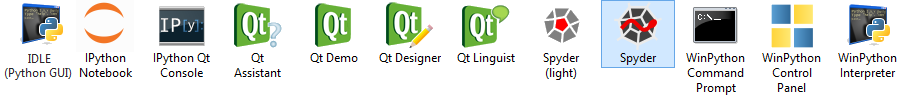
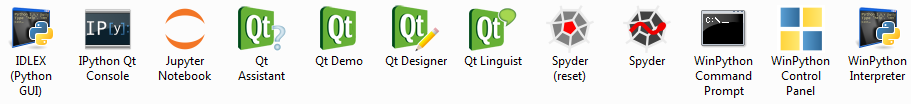
update website

diff --git a/index.html b/index.html
@@ -31,14 +31,14 @@
 		<ul>
 			<li>WinPython <strong>3.4</strong>.4.1 <a href="https://github.com/winpython/winpython/blob/master/changelogs/WinPython-3.4.4.1_History.md">Changelog</a>, <a href="https://github.com/winpython/winpython/blob/master/changelogs/WinPython-3.4.4.1.md">Packages</a> and <a href="https://sourceforge.net/projects/winpython/files/WinPython_3.4/3.4.4.1/">Downloads</a>, or <a href="https://github.com/winpython/winpython/releases/tag/1.3.20160209">alternative Downloads</a></li>
 			<li>WinPython <strong>3.4</strong>.4.1Qt5 <a href="https://github.com/winpython/winpython/blob/master/changelogs/WinPythonQt5-3.4.4.1_History.md">Changelog</a>, <a href="https://github.com/winpython/winpython/blob/master/changelogs/WinPythonQt5-3.4.4.1.md">Packages</a> and <a href="https://sourceforge.net/projects/winpython/files/WinPython_3.4/3.4.4.1/">Downloads</a></li>
-			<li>WinPython <strong>3.5</strong>.1.2 <a href="https://github.com/winpython/winpython/blob/master/changelogs/WinPython-3.5.1.2_History.md">Changelog</a>, <a href="https://github.com/winpython/winpython/blob/master/changelogs/WinPython-3.5.1.2.md">Packages</a> and <a href="https://sourceforge.net/projects/winpython/files/WinPython_3.5/3.5.1.2/">Downloads</a></li>
+			<li>WinPython <strong>3.5</strong>.1.2 (*) <a href="https://github.com/winpython/winpython/blob/master/changelogs/WinPython-3.5.1.2_History.md">Changelog</a>, <a href="https://github.com/winpython/winpython/blob/master/changelogs/WinPython-3.5.1.2.md">Packages</a> and <a href="https://sourceforge.net/projects/winpython/files/WinPython_3.5/3.5.1.2/">Downloads</a></li>
 		</ul>
 		<p>Release <a href="https://github.com/winpython/winpython/issues/190">2015-08</a> of December 12th, 2015 </p>
 		<p>Highlights: WinPython 3.5, Pandas 0.17.1, Scikit-learn 0.17, smaller Winpython variants (<a href="https://github.com/winpython/winpython/blob/master/changelogs/WinPythonZero-3.4.3.7.md">Zero</a> and <a href="https://github.com/winpython/winpython/blob/master/changelogs/WinPythonSlim-3.4.3.7.md">Slim</a>)</p>
 		<ul>
 			<li>WinPython <strong>3.4</strong>.3.7 <a href="https://github.com/winpython/winpython/blob/master/changelogs/WinPython-3.4.3.7_History.md">Changelog</a>, <a href="https://github.com/winpython/winpython/blob/master/changelogs/WinPython-3.4.3.7.md">Packages</a> and <a href="https://sourceforge.net/projects/winpython/files/WinPython_3.4/3.4.3.7/">Downloads</a>, or <a href="https://github.com/winpython/winpython/releases/tag/1.3.20151212">alternative Downloads</a></li>
 			<li>WinPython <strong>3.4</strong>.3.7Qt5 <a href="https://github.com/winpython/winpython/blob/master/changelogs/WinPythonQt5-3.4.3.7_History.md">Changelog</a>, <a href="https://github.com/winpython/winpython/blob/master/changelogs/WinPythonQt5-3.4.3.7.md">Packages</a> and <a href="https://sourceforge.net/projects/winpython/files/WinPython_3.4/3.4.3.7/">Downloads</a></li>
-			<li>WinPython <strong>3.5</strong>.1.1 <a href="https://github.com/winpython/winpython/blob/master/changelogs/WinPython-3.5.1.1_History.md">Changelog</a>, <a href="https://github.com/winpython/winpython/blob/master/changelogs/WinPython-3.5.1.1.md">Packages</a> and <a href="https://sourceforge.net/projects/winpython/files/WinPython_3.5/3.5.1.1/">Downloads</a></li>
+			<li>WinPython <strong>3.5</strong>.1.1 (*) <a href="https://github.com/winpython/winpython/blob/master/changelogs/WinPython-3.5.1.1_History.md">Changelog</a>, <a href="https://github.com/winpython/winpython/blob/master/changelogs/WinPython-3.5.1.1.md">Packages</a> and <a href="https://sourceforge.net/projects/winpython/files/WinPython_3.5/3.5.1.1/">Downloads</a></li>
 		</ul>
 		<p>Release <a href="https://github.com/winpython/winpython/issues/148">2015-07</a> of October 29th, 2015 </p>
 		<p>Highlights: Ipython 4, Spyder 3, Matplotlib 1.5, Pandas 0.17, Qt5.5.1, closer integration with pip</p>
@@ -52,38 +52,38 @@
 		<div class="centered"><img style="width: 125px; height: 45px;" alt="WinPython Small Logos" src="images/small_logos.png"></div>
 		
 		<h2 id="overview">Overview</h2>
-		<p>WinPython is a free open-source portable distribution of the <a href="https://www.python.org/">Python programming language</a> for Windows Vista/7/8 and scientific and educational usage.</p>
+		<p>WinPython is a free open-source portable distribution of the <a href="https://www.python.org/">Python programming language</a> for Windows 7/8/10 and scientific and educational usage.</p>
 		<p><img style="width: 901px; height: 97px;" alt="WinPython Launcher Icons" src="images/winpython_launchers.png" /></p>
 		<p>It is a full-featured (see our <a href="https://github.com/winpython/winpython/wiki">Wiki</a>) Python-based scientific environment:</p>
 		<ul>
 			<li>Designed for scientists, data-scientists, and education (thanks to <a href="http://numpy.org/">NumPy</a>, <a href="https://www.scipy.org/">SciPy</a>, <a href="https://www.sympy.org/">Sympy</a>, <a href="http://www.matplotlib.org/">Matplotlib</a>, <a href="http://pandas.pydata.org/">Pandas</a>, <a href="http://www.pyqtgraph.org/">pyqtgraph</a>, etc.):
 			<ul>
-				<li>interactive data processing and visualization using Python with <a href="https://github.com/spyder-ide">Spyder</a> and <a href="http://ipython.org/">IPython</a>, or IDLE </li>
+				<li>interactive data processing and visualization using Python with <a href="https://github.com/spyder-ide">Spyder</a> and <a href="http://jupyter.org/">Jupyter/IPython</a>, or IDLE </li>
 				<li>out-of-the-box working Compiler (Mingw64), <strong>fully integrated Cython and Numba!</strong> See <a href="http://nbviewer.ipython.org/github/winpython/winpython_afterdoc/blob/master/docs/Winpython_checker.ipynb">included example</a></li>
-				<li>connectors (cffi, odbc, rpy2, scilab2py, requests, ...) and dedicated Flavors (R, Julia, ...) for advanced users</li>
+				<li>connectors (cffi, odbc, rpy2, scilab2py, requests, ...) for advanced users</li>
 			</ul></li>
 			<li><strong>Portable</strong>:
 			<ul>
-				<li>Runs out of the box on any Windows with 2GB Ram (IPython needs Windows>XP, and IPython Notebook a recent browser)</li>
+				<li>Runs out of the box(*) on any Windows with 2GB Ram (Jupyter Notebook may require a recent browser)</li>
                 <li>The WinPython folder can be moved to any location (local, network, USB drive) with most of the <a href="https://github.com/winpython/winpython/wiki/Installation#settings">application settings</a></li>
             </ul>
 			<li><strong>Flexible</strong>: 
 			<ul>
 				<li>You can install as many WinPython distributions as you want on the same machine: each one is isolated and self-consistent</li>
-				<li>These installations can be of different versions of Python (2.7 or 3.4+) or different architectures (32bit or 64bit)</li>
+				<li>These installations can be of different versions of Python (3.5/3.4/2.7...) and different architectures (32bit/64bit)</li>
             </ul>
 			<li><strong>Customizable</strong>:
 			<ul>
 				<li>The integrated WinPython Package Manager (<a href="https://github.com/winpython/winpython/wiki/WPPM">WPPM</a>) helps installing, uninstalling or upgrading Python packages  </li>
-				<li>It's also possible to install or upgrade packages using <tt>pip</tt> from the WinPython command prompt </li>
+				<li>It's also possible to install or upgrade packages using <strong>pip</strong> from the WinPython command prompt </li>
 				<li>A configuration file allows you to set <a href="https://github.com/winpython/winpython/wiki/Environment">environment variables</a> at runtime </li>
 			</ul></li>
 		</ul>
 		<p>WinPython is <strong>something different</strong> from other Python Distributions (see historic <a href="https://github.com/winpython/winpython/wiki/Roadmap"> motivation and concept</a>):</p>
 		<ul>
 			<li><strong>non-invasive</strong>: WinPython lives entirely in its own directory, without any OS installation</li>
-			<li><strong>flavors</strong>: releases with added packages are created to better fit a domain out-of-the-box</li>
-			<li><strong>do your own flavor</strong>: a winpython-creator <a href="https://sourceforge.net/projects/winpython/files/WinPython_Source/Do_It_Yourself/">kit</a> is made available for you</li>
+			<li><strong>customizable</strong>: add your missing packages, zip the WinPython directory and give it to your students</li>
+			<li><strong>do your own version</strong>: a winpython-creator <a href="https://sourceforge.net/projects/winpython/files/WinPython_Source/Do_It_Yourself/">kit</a> is made available for you</li>
 		</ul>
 		<div class="centered"><img style="width: 125px; height: 45px;" alt="WinPython Small Logos" src="images/small_logos.png" /></div>
 		
@@ -98,9 +98,12 @@
 			<li>register WinPython as a standard Python distribution (standard Python Windows installers will see WinPython in Windows registry)</li>
 		</ul>
 		That is exactly what the official Python installer would do to your machine: in other words, you can have it both ways!
-		<div class="centered"><img style="width: 125px; height: 45px;" alt="WinPython Small Logos" src="images/small_logos.png"></div>
+
+		<p>(*) For WinPython 3.5, Windows 7/8 users may have to install <a href="http://www.microsoft.com/en-us/download/details.aspx?id=49984">Microsoft Visual C++ Redistributable for Visual Studio 2015</a>
+	</p>
+	<div class="centered"><img style="width: 125px; height: 45px;" alt="WinPython Small Logos" src="images/small_logos.png"></div>
     </div>
-	<div id="footer">© Copyright 2009-2013, Pierre Raybaut; 2014+ <a href="https://github.com/winpython/">The Winpython Development Team</a>. Last updated 2016-02-09</div>
+	<div id="footer">© Copyright 2009-2013, Pierre Raybaut; 2014+ <a href="https://github.com/winpython/">The Winpython Development Team</a>. Last updated 2016-02-11</div>
 	<div class="centered"><img style="width: 125px; height: 45px;" alt="WinPython Small Logos" src="images/small_logos.png"></div>
 </body>
 </html>
